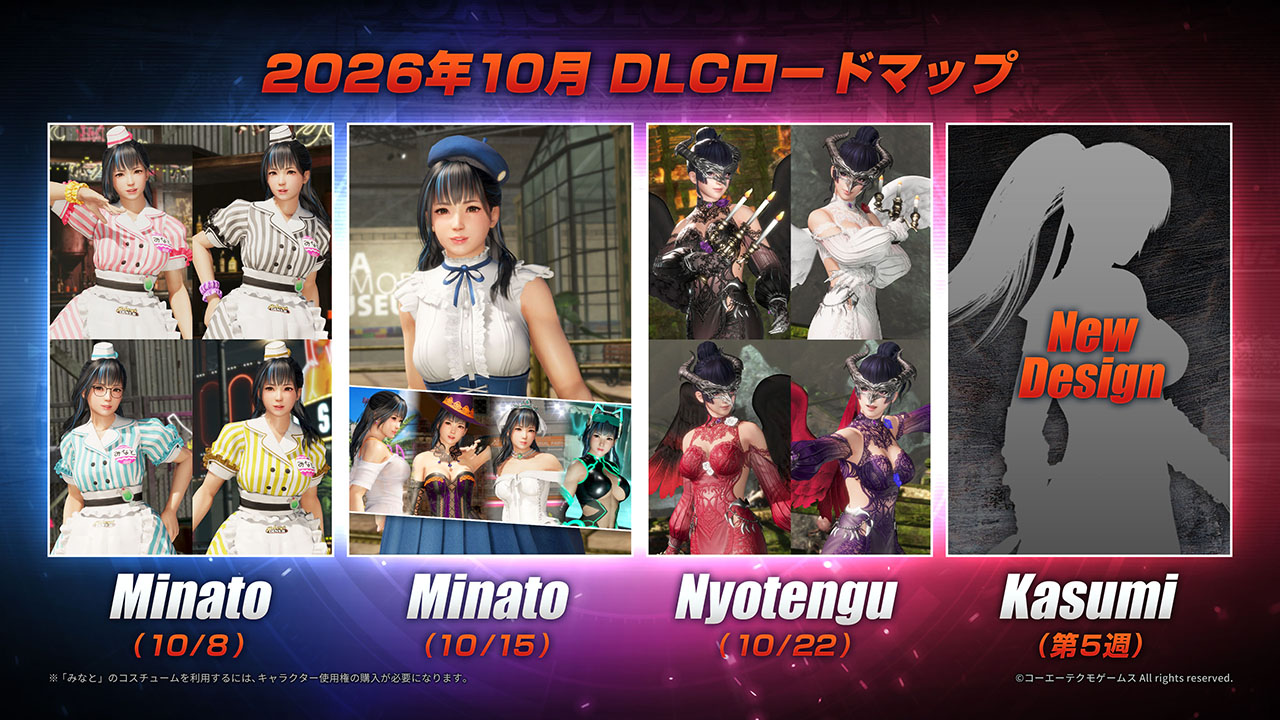
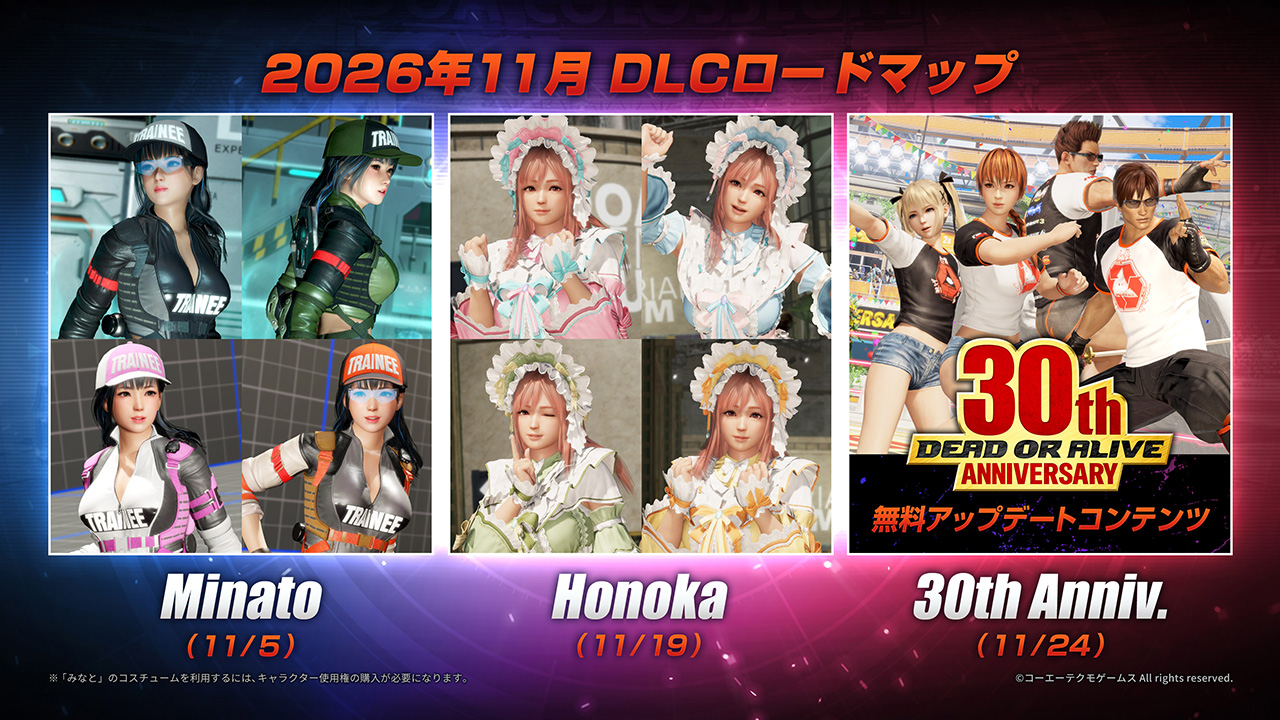
かすみさん、みなとさん、ほのかさんのDLCを追加。

diff --git a/useful/doa6lr-dlc-list.html b/useful/doa6lr-dlc-list.html
@@ -22,7 +22,7 @@
     <meta property="og:description" content="DEAD OR ALIVE 6 Last Round の400種類を超えるDLCを検索し一覧表示する非公式ページです。">
     <meta property="og:type" content="website">
     <meta property="og:url" content="https://kiyopon46.github.io/articles/useful/doa6lr-dlc-list.html">
-    <meta property="og:image" content="https://kiyopon46.github.io/articles/useful/images/doa6lr-dlc-ogp.jpg?t=20261022213800">
+    <meta property="og:image" content="https://kiyopon46.github.io/articles/useful/images/doa6lr-dlc-ogp.jpg?t=20261125123800">
     <meta property="og:image:width" content="1280">
     <meta property="og:image:height" content="720">
     <meta property="og:image:alt" content="DEAD OR ALIVE 6 Last Round DLC List">
@@ -30,7 +30,7 @@
     <meta name="twitter:card" content="summary_large_image">
     <meta name="twitter:title" content="DEAD OR ALIVE 6 Last Round - DLC List (Unofficial)">
     <meta name="twitter:description" content="DEAD OR ALIVE 6 Last Round の400種類を超えるDLCを検索し一覧表示する非公式ページです。">
-    <meta name="twitter:image" content="https://kiyopon46.github.io/articles/useful/images/doa6lr-dlc-ogp.jpg?t=20261022213800">
+    <meta name="twitter:image" content="https://kiyopon46.github.io/articles/useful/images/doa6lr-dlc-ogp.jpg?t=20261125123800">
 
     <link rel="canonical" href="https://kiyopon46.github.io/articles/useful/doa6lr-dlc-list.html">
     <!-- DataTables CSS via CDN -->
@@ -8259,9 +8259,234 @@
         </td>
         <td class="text-center purchased-cell"><input type="checkbox" class="purchased-check" aria-label="購入済み"></td>
     </tr>
+    <tr data-dlc-id="5366600">
+        <td data-search="DOA6LR かすみ 「Knight of Destiny／トパーズ」" class="text-center">
+            <div class="dlc-name">DOA6LR かすみ 「Knight of Destiny／トパーズ」</div>
+            <a href="https://store.steampowered.com/app/5366600/DOA6LR_かすみ_Knight_of_Destinyトパーズ/" target="_blank" rel="noopener noreferrer">
+                <img src="https://shared.akamai.steamstatic.com/store_item_assets/steam/apps/5366600/4c5de2125b0d2d3b6359e54b7e86e944460b23eb/header_292x136.jpg" alt="DOA6LR かすみ 「Knight of Destiny／トパーズ」" class="dlc-banner" loading="lazy">
+            </a><br><span class="rel-date">2026年10月29日 リリース</span>
+        </td>
+        <td data-order="1320" class="text-center price-cell">
+            ¥ 1,320
+        </td>
+        <td><span class="search-only">新DLC</span>
+            より個性的に、美しく！　かすみの特別なコスチュームが登場！ かすみ専用のコスチューム、「Knight of Destiny／トパーズ」です。
+        </td>
+        <td class="text-center purchased-cell"><input type="checkbox" class="purchased-check" aria-label="購入済み"></td>
+    </tr>
+    <tr data-dlc-id="5366590">
+        <td data-search="DOA6LR かすみ 「Knight of Destiny／ゴシェナイト」" class="text-center">
+            <div class="dlc-name">DOA6LR かすみ 「Knight of Destiny／ゴシェナイト」</div>
+            <a href="https://store.steampowered.com/app/5366590/DOA6LR_かすみ_Knight_of_Destinyゴシェナイト/" target="_blank" rel="noopener noreferrer">
+                <img src="https://shared.akamai.steamstatic.com/store_item_assets/steam/apps/5366590/e9089e57cd7af11eaedfb95b2f81d4a185aa3c19/header_292x136.jpg" alt="DOA6LR かすみ 「Knight of Destiny／ゴシェナイト」" class="dlc-banner" loading="lazy">
+            </a><br><span class="rel-date">2026年10月29日 リリース</span>
+        </td>
+        <td data-order="1320" class="text-center price-cell">
+            ¥ 1,320
+        </td>
+        <td><span class="search-only">新DLC</span>
+            より個性的に、美しく！　かすみの特別なコスチュームが登場！ かすみ専用のコスチューム、「Knight of Destiny／ゴシェナイト」です。
+        </td>
+        <td class="text-center purchased-cell"><input type="checkbox" class="purchased-check" aria-label="購入済み"></td>
+    </tr>
+    <tr data-dlc-id="5366580">
+        <td data-search="DOA6LR かすみ 「Knight of Destiny／ガーネット」" class="text-center">
+            <div class="dlc-name">DOA6LR かすみ 「Knight of Destiny／ガーネット」</div>
+            <a href="https://store.steampowered.com/app/5366580/DOA6LR_かすみ_Knight_of_Destinyガーネット/" target="_blank" rel="noopener noreferrer">
+                <img src="https://shared.akamai.steamstatic.com/store_item_assets/steam/apps/5366580/5740b9f760a778cd8c87384c96b851d846865f80/header_292x136.jpg" alt="DOA6LR かすみ 「Knight of Destiny／ガーネット」" class="dlc-banner" loading="lazy">
+            </a><br><span class="rel-date">2026年10月29日 リリース</span>
+        </td>
+        <td data-order="1320" class="text-center price-cell">
+            ¥ 1,320
+        </td>
+        <td><span class="search-only">新DLC</span>
+            より個性的に、美しく！　かすみの特別なコスチュームが登場！ かすみ専用のコスチューム、「Knight of Destiny／ガーネット」です。
+        </td>
+        <td class="text-center purchased-cell"><input type="checkbox" class="purchased-check" aria-label="購入済み"></td>
+    </tr>
+    <tr data-dlc-id="5366570">
+        <td data-search="DOA6LR かすみ 「Knight of Destiny／ラピスラズリ」" class="text-center">
+            <div class="dlc-name">DOA6LR かすみ 「Knight of Destiny／ラピスラズリ」</div>
+            <a href="https://store.steampowered.com/app/5366570/DOA6LR_かすみ_Knight_of_Destinyラピスラズリ/" target="_blank" rel="noopener noreferrer">
+                <img src="https://shared.akamai.steamstatic.com/store_item_assets/steam/apps/5366570/f068d745efbfe5dced09eff05409c17c398fb88d/header_292x136.jpg" alt="DOA6LR かすみ 「Knight of Destiny／ラピスラズリ」" class="dlc-banner" loading="lazy">
+            </a><br><span class="rel-date">2026年10月29日 リリース</span>
+        </td>
+        <td data-order="1320" class="text-center price-cell">
+            ¥ 1,320
+        </td>
+        <td><span class="search-only">新DLC</span>
+            より個性的に、美しく！　かすみの特別なコスチュームが登場！ かすみ専用のコスチューム、「Knight of Destiny／ラピスラズリ」です。
+        </td>
+        <td class="text-center purchased-cell"><input type="checkbox" class="purchased-check" aria-label="購入済み"></td>
+    </tr>
+    <tr data-dlc-id="5366560" data-dlc-tags="set">
+        <td data-search="DOA6LR かすみ 「Knight of Destiny」セット" class="text-center">
+            <div class="dlc-name">DOA6LR かすみ 「Knight of Destiny」セット</div>
+            <a href="https://store.steampowered.com/app/5366560/DOA6LR_かすみ_Knight_of_Destinyセット/" target="_blank" rel="noopener noreferrer">
+                <img src="https://shared.akamai.steamstatic.com/store_item_assets/steam/apps/5366560/e2555d18f658a0bbe1c432cfb0045a1c8106c7e8/header_292x136.jpg" alt="DOA6LR かすみ 「Knight of Destiny」セット" class="dlc-banner" loading="lazy">
+            </a><br><span class="rel-date">2026年10月29日 リリース</span>
+        </td>
+        <td data-order="3300" class="text-center price-cell">
+            ¥ 3,300
+        </td>
+        <td><span class="search-only">新DLC</span>
+            より個性的に、美しく！　かすみの特別なコスチュームが登場！ 「Knight of Destiny／ラピスラズリ」「Knight of Destiny／ガーネット」「Knight of Destiny／ゴシェナイト」「Knight of Destiny／トパーズ」のセットです。
+        </td>
+        <td class="text-center purchased-cell"><input type="checkbox" class="purchased-check" aria-label="購入済み"></td>
+    </tr>
+    <tr data-dlc-id="5450700">
+        <td data-search="DOA6LR みなと 「Weekend Mission／デルタ・フロッグ」" class="text-center">
+            <div class="dlc-name">DOA6LR みなと 「Weekend Mission／デルタ・フロッグ」</div>
+            <a href="https://store.steampowered.com/app/5450700/DOA6LR_みなと_Weekend_Missionデルタフロッグ/" target="_blank" rel="noopener noreferrer">
+                <img src="https://shared.akamai.steamstatic.com/store_item_assets/steam/apps/5450700/07fdf960c44340a3496552e2e002de46715af730/header_292x136.jpg" alt="DOA6LR みなと 「Weekend Mission／デルタ・フロッグ」" class="dlc-banner" loading="lazy">
+            </a><br><span class="rel-date">2026年11月5日 リリース</span>
+        </td>
+        <td data-order="1320" class="text-center price-cell">
+            ¥ 1,320
+        </td>
+        <td><span class="search-only">新DLC</span>
+            より個性的に、美しく！　みなとの特別なコスチュームが登場！ みなと専用のコスチューム、「Weekend Mission／デルタ・フロッグ」です。
+        </td>
+        <td class="text-center purchased-cell"><input type="checkbox" class="purchased-check" aria-label="購入済み"></td>
+    </tr>
+    <tr data-dlc-id="5450690">
+        <td data-search="DOA6LR みなと 「Weekend Mission／チャーリー・フォックス」" class="text-center">
+            <div class="dlc-name">DOA6LR みなと 「Weekend Mission／チャーリー・フォックス」</div>
+            <a href="https://store.steampowered.com/app/5450690/DOA6LR_みなと_Weekend_Missionチャーリーフォックス/" target="_blank" rel="noopener noreferrer">
+                <img src="https://shared.akamai.steamstatic.com/store_item_assets/steam/apps/5450690/a010558c7810ecba9035312a33ba8b72ca2e4650/header_292x136.jpg" alt="DOA6LR みなと 「Weekend Mission／チャーリー・フォックス」" class="dlc-banner" loading="lazy">
+            </a><br><span class="rel-date">2026年11月5日 リリース</span>
+        </td>
+        <td data-order="1320" class="text-center price-cell">
+            ¥ 1,320
+        </td>
+        <td><span class="search-only">新DLC</span>
+            より個性的に、美しく！　みなとの特別なコスチュームが登場！ みなと専用のコスチューム、「Weekend Mission／チャーリー・フォックス」です。
+        </td>
+        <td class="text-center purchased-cell"><input type="checkbox" class="purchased-check" aria-label="購入済み"></td>
+    </tr>
+    <tr data-dlc-id="5450680">
+        <td data-search="DOA6LR みなと 「Weekend Mission／ブラボー・ラビット」" class="text-center">
+            <div class="dlc-name">DOA6LR みなと 「Weekend Mission／ブラボー・ラビット」</div>
+            <a href="https://store.steampowered.com/app/5450680/DOA6LR_みなと_Weekend_Missionブラボーラビット/" target="_blank" rel="noopener noreferrer">
+                <img src="https://shared.akamai.steamstatic.com/store_item_assets/steam/apps/5450680/1ef45d82ecfed85436b1be25b8204f5c5e48477d/header_292x136.jpg" alt="DOA6LR みなと 「Weekend Mission／ブラボー・ラビット」" class="dlc-banner" loading="lazy">
+            </a><br><span class="rel-date">2026年11月5日 リリース</span>
+        </td>
+        <td data-order="1320" class="text-center price-cell">
+            ¥ 1,320
+        </td>
+        <td><span class="search-only">新DLC</span>
+            より個性的に、美しく！　みなとの特別なコスチュームが登場！ みなと専用のコスチューム、「Weekend Mission／ブラボー・ラビット」です。
+        </td>
+        <td class="text-center purchased-cell"><input type="checkbox" class="purchased-check" aria-label="購入済み"></td>
+    </tr>
+    <tr data-dlc-id="5450670">
+        <td data-search="DOA6LR みなと 「Weekend Mission／アルファ・ウルフ」" class="text-center">
+            <div class="dlc-name">DOA6LR みなと 「Weekend Mission／アルファ・ウルフ」</div>
+            <a href="https://store.steampowered.com/app/5450670/DOA6LR_みなと_Weekend_Missionアルファウルフ/" target="_blank" rel="noopener noreferrer">
+                <img src="https://shared.akamai.steamstatic.com/store_item_assets/steam/apps/5450670/cbc0114c49b105d721d468d611f8dbbc443a264e/header_292x136.jpg" alt="DOA6LR みなと 「Weekend Mission／アルファ・ウルフ」" class="dlc-banner" loading="lazy">
+            </a><br><span class="rel-date">2026年11月5日 リリース</span>
+        </td>
+        <td data-order="1320" class="text-center price-cell">
+            ¥ 1,320
+        </td>
+        <td><span class="search-only">新DLC</span>
+            より個性的に、美しく！　みなとの特別なコスチュームが登場！ みなと専用のコスチューム、「Weekend Mission／アルファ・ウルフ」です。
+        </td>
+        <td class="text-center purchased-cell"><input type="checkbox" class="purchased-check" aria-label="購入済み"></td>
+    </tr>
+    <tr data-dlc-id="5450660" data-dlc-tags="set">
+        <td data-search="DOA6LR みなと 「Weekend Mission」セット" class="text-center">
+            <div class="dlc-name">DOA6LR みなと 「Weekend Mission」セット</div>
+            <a href="https://store.steampowered.com/app/5450660/DOA6LR_みなと_Weekend_Missionセット/" target="_blank" rel="noopener noreferrer">
+                <img src="https://shared.akamai.steamstatic.com/store_item_assets/steam/apps/5450660/c81c525508e954e17a5d38065e39f68c9ecc2d69/header_292x136.jpg" alt="DOA6LR みなと 「Weekend Mission」セット" class="dlc-banner" loading="lazy">
+            </a><br><span class="rel-date">2026年11月5日 リリース</span>
+        </td>
+        <td data-order="3300" class="text-center price-cell">
+            ¥ 3,300
+        </td>
+        <td><span class="search-only">新DLC</span>
+            より個性的に、美しく！　みなとの特別なコスチュームが登場！ 「Weekend Mission／アルファ・ウルフ」「Weekend Mission／ブラボー・ラビット」「Weekend Mission／チャーリー・フォックス」「Weekend Mission／デルタ・フロッグ」のセットです。
+        </td>
+        <td class="text-center purchased-cell"><input type="checkbox" class="purchased-check" aria-label="購入済み"></td>
+    </tr>
+    <tr data-dlc-id="5450750">
+        <td data-search="DOA6LR ほのか 「メルティスウィート／レモンホイップ」" class="text-center">
+            <div class="dlc-name">DOA6LR ほのか 「メルティスウィート／レモンホイップ」</div>
+            <a href="https://store.steampowered.com/app/5450750/DOA6LR_ほのか_メルティスウィートレモンホイップ/" target="_blank" rel="noopener noreferrer">
+                <img src="https://shared.akamai.steamstatic.com/store_item_assets/steam/apps/5450750/5a696163a4795fd4c8e9e0cd443d97340a9be58e/header_292x136.jpg" alt="DOA6LR ほのか 「メルティスウィート／レモンホイップ」" class="dlc-banner" loading="lazy">
+            </a><br><span class="rel-date">2026年11月19日 リリース</span>
+        </td>
+        <td data-order="1320" class="text-center price-cell">
+            ¥ 1,320
+        </td>
+        <td><span class="search-only">新DLC</span>
+            より個性的に、美しく！　ほのかの特別なコスチュームが登場！ ほのか専用のコスチューム、「メルティスウィート／レモンホイップ」です。
+        </td>
+        <td class="text-center purchased-cell"><input type="checkbox" class="purchased-check" aria-label="購入済み"></td>
+    </tr>
+    <tr data-dlc-id="5450740">
+        <td data-search="DOA6LR ほのか 「メルティスウィート／ズンダモチ」" class="text-center">
+            <div class="dlc-name">DOA6LR ほのか 「メルティスウィート／ズンダモチ」</div>
+            <a href="https://store.steampowered.com/app/5450740/DOA6LR_ほのか_メルティスウィートズンダモチ/" target="_blank" rel="noopener noreferrer">
+                <img src="https://shared.akamai.steamstatic.com/store_item_assets/steam/apps/5450740/80f4b40ec246e6d72bf970126cdb2505b85e3e7b/header_292x136.jpg" alt="DOA6LR ほのか 「メルティスウィート／ズンダモチ」" class="dlc-banner" loading="lazy">
+            </a><br><span class="rel-date">2026年11月19日 リリース</span>
+        </td>
+        <td data-order="1320" class="text-center price-cell">
+            ¥ 1,320
+        </td>
+        <td><span class="search-only">新DLC</span>
+            より個性的に、美しく！　ほのかの特別なコスチュームが登場！ ほのか専用のコスチューム、「メルティスウィート／ズンダモチ」です。
+        </td>
+        <td class="text-center purchased-cell"><input type="checkbox" class="purchased-check" aria-label="購入済み"></td>
+    </tr>
+    <tr data-dlc-id="5450730">
+        <td data-search="DOA6LR ほのか 「メルティスウィート／ソーダジェリー」" class="text-center">
+            <div class="dlc-name">DOA6LR ほのか 「メルティスウィート／ソーダジェリー」</div>
+            <a href="https://store.steampowered.com/app/5450730/DOA6LR_ほのか_メルティスウィートソーダジェリー/" target="_blank" rel="noopener noreferrer">
+                <img src="https://shared.akamai.steamstatic.com/store_item_assets/steam/apps/5450730/a343ef60c4f408ed8bd03e7256c44a73c4d4503f/header_292x136.jpg" alt="DOA6LR ほのか 「メルティスウィート／ソーダジェリー」" class="dlc-banner" loading="lazy">
+            </a><br><span class="rel-date">2026年11月19日 リリース</span>
+        </td>
+        <td data-order="1320" class="text-center price-cell">
+            ¥ 1,320
+        </td>
+        <td><span class="search-only">新DLC</span>
+            より個性的に、美しく！　ほのかの特別なコスチュームが登場！ ほのか専用のコスチューム、「メルティスウィート／ソーダジェリー」です。
+        </td>
+        <td class="text-center purchased-cell"><input type="checkbox" class="purchased-check" aria-label="購入済み"></td>
+    </tr>
+    <tr data-dlc-id="5450720">
+        <td data-search="DOA6LR ほのか 「メルティスウィート／ベリーコットン」" class="text-center">
+            <div class="dlc-name">DOA6LR ほのか 「メルティスウィート／ベリーコットン」</div>
+            <a href="https://store.steampowered.com/app/5450720/DOA6LR_ほのか_メルティスウィートベリーコットン/" target="_blank" rel="noopener noreferrer">
+                <img src="https://shared.akamai.steamstatic.com/store_item_assets/steam/apps/5450720/e6beeb062fc9cbdb8d14948aafc2422ffb1d75dd/header_292x136.jpg" alt="DOA6LR ほのか 「メルティスウィート／ベリーコットン」" class="dlc-banner" loading="lazy">
+            </a><br><span class="rel-date">2026年11月19日 リリース</span>
+        </td>
+        <td data-order="1320" class="text-center price-cell">
+            ¥ 1,320
+        </td>
+        <td><span class="search-only">新DLC</span>
+            より個性的に、美しく！　ほのかの特別なコスチュームが登場！ ほのか専用のコスチューム、「メルティスウィート／ベリーコットン」です。
+        </td>
+        <td class="text-center purchased-cell"><input type="checkbox" class="purchased-check" aria-label="購入済み"></td>
+    </tr>
+    <tr data-dlc-id="5450710" data-dlc-tags="set">
+        <td data-search="DOA6LR ほのか 「メルティスウィート」セット" class="text-center">
+            <div class="dlc-name">DOA6LR ほのか 「メルティスウィート」セット</div>
+            <a href="https://store.steampowered.com/app/5450710/DOA6LR_ほのか_メルティスウィートセット/" target="_blank" rel="noopener noreferrer">
+                <img src="https://shared.akamai.steamstatic.com/store_item_assets/steam/apps/5450710/06e1c38a62148835b3db363fb50d556555ee8047/header_292x136.jpg" alt="DOA6LR ほのか 「メルティスウィート」セット" class="dlc-banner" loading="lazy">
+            </a><br><span class="rel-date">2026年11月19日 リリース</span>
+        </td>
+        <td data-order="3300" class="text-center price-cell">
+            ¥ 3,300
+        </td>
+        <td><span class="search-only">新DLC</span>
+            より個性的に、美しく！　ほのかの特別なコスチュームが登場！ 「メルティスウィート／ベリーコットン」「メルティスウィート／ソーダジェリー」「メルティスウィート／ズンダモチ」「メルティスウィート／レモンホイップ」のセットです。
+        </td>
+        <td class="text-center purchased-cell"><input type="checkbox" class="purchased-check" aria-label="購入済み"></td>
+    </tr>
         </tbody>
     </table>
-    <div class="last-updated">Last Updated: 2026年10月27日</div>
+    <div class="last-updated">Last Updated: 2026年11月25日</div>
 </div>
 
 <!-- jQuery & DataTables JS via CDN -->
